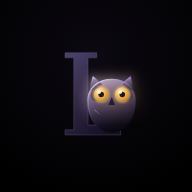
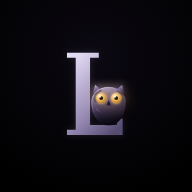
下バーの余白を元に戻し、アイコンのフクロウを前の大きさに戻す (#39)
■ 下にできた余白
前回、下バーにホームバーぶんの余白（約34px）を足したところ、
その分だけバーが高くなって画面下に空白ができていました。
バーの中のアイコンは元から 15px ほど内側にあり、ホームバーの線には
掛からないので、余分な余白は付けずに画面下いっぱいまで戻しました。
詳細画面の本文の下余白も、下バーぶんだけに戻しています。
（上の帯を避ける余白はそのまま残しています）

■ アイコン
フクロウを一つ前の大きさに戻しました。黒い地と、闇に溶ける体・
金色に光る目という描き方はそのままです。

■ テストの揺らぎ
横向きの検証で詳細画面がスライドしている途中を測ってしまうことがあったので、
待ち時間を伸ばしました（表示自体は問題なし）。

検証: 上 59px・下 34px の帯を再現して、ヘッダー・詳細・メニューが帯に
掛からないこと、下バーが画面下いっぱいでアイコンが縁に触れないことを確認。

Claude-Session: https://claude.ai/code/session_011yLiAuTRPF991GYKM8apWE

Changed region(s): [[0.3125, 0.25, 0.7188, 0.7188]]

diff --git a/index.html b/index.html
@@ -7,13 +7,13 @@
 <title>LIFE</title>
 <!-- ホーム画面に追加したときのアイコン。指定が無いと iOS が
      ページを縮小した「黒地に文字」の絵を勝手に作ってしまう -->
-<link rel="apple-touch-icon" href="assets/icon-180.png?v=dev725133">
-<link rel="icon" type="image/png" sizes="192x192" href="assets/icon-192.png?v=dev725133">
-<link rel="icon" type="image/svg+xml" href="assets/icon.svg?v=dev725133">
-<link rel="manifest" href="manifest.webmanifest?v=dev725133">
+<link rel="apple-touch-icon" href="assets/icon-180.png?v=dev725134">
+<link rel="icon" type="image/png" sizes="192x192" href="assets/icon-192.png?v=dev725134">
+<link rel="icon" type="image/svg+xml" href="assets/icon.svg?v=dev725134">
+<link rel="manifest" href="manifest.webmanifest?v=dev725134">
 <meta name="apple-mobile-web-app-title" content="LIFE">
 <meta name="apple-mobile-web-app-status-bar-style" content="black-translucent">
-<link rel="stylesheet" href="assets/app.css?v=dev725133">
+<link rel="stylesheet" href="assets/app.css?v=dev725134">
 </head>
 <body>
 <!-- 筋トレの 3D 風イラストで使う塗り（グラデーションと発光）。
@@ -115,11 +115,11 @@
     <div class="mask" id="mask"><div class="sheet" id="sheet"></div></div>
   </div>
 </div>
-<script src="assets/github.js?v=dev725133"></script>
-<script src="assets/places.js?v=dev725133"></script>
-<script src="assets/nearby.js?v=dev725133"></script>
-<script src="assets/workout.js?v=dev725133"></script>
-<script src="assets/demo-data.js?v=dev725133"></script>
-<script src="assets/app.js?v=dev725133"></script>
+<script src="assets/github.js?v=dev725134"></script>
+<script src="assets/places.js?v=dev725134"></script>
+<script src="assets/nearby.js?v=dev725134"></script>
+<script src="assets/workout.js?v=dev725134"></script>
+<script src="assets/demo-data.js?v=dev725134"></script>
+<script src="assets/app.js?v=dev725134"></script>
 </body>
 </html>

diff --git a/assets/app.css b/assets/app.css
@@ -156,9 +156,7 @@
   .act svg{width:15px;height:15px}
   .actzone{flex:none;padding:0 14px}
   .actzone:empty{display:none}
-  /* 高さ 58px は content-box で保ち、ホームバーぶんは下に足す */
-  .bottombar{flex:none;box-sizing:content-box;height:58px;display:flex;align-items:center;gap:2px;
-    padding:0 6px var(--safe-b);
+  .bottombar{flex:none;height:58px;display:flex;align-items:center;gap:2px;padding:0 6px;
     border-top:1px solid var(--line2);background:linear-gradient(180deg,#131318,#0B0B0E);position:relative;z-index:36}
   .bb{flex:1;display:flex;flex-direction:column;align-items:center;gap:3px;padding:6px 1px;border:0;
     background:none;color:var(--dim);cursor:pointer;font-family:var(--font);font-size:8.5px;border-radius:9px;line-height:1.2}
@@ -265,7 +263,7 @@
     padding:calc(17px + var(--safe-t)) 16px 12px;
     border-bottom:1px solid var(--line);flex:none}
   .db .dt{font-size:10.5px;letter-spacing:.2em;text-transform:uppercase;color:var(--dim);flex:1}
-  .dbody{flex:1;overflow-y:auto;padding:17px 16px calc(58px + var(--safe-b) + 28px)}
+  .dbody{flex:1;overflow-y:auto;padding:17px 16px calc(58px + 28px)}
   .dtitle{font-size:19px;line-height:1.4;font-weight:500;margin:0 0 7px;text-wrap:balance}
   .dsub{font-size:11.5px;color:var(--dim);margin-bottom:13px;font-family:var(--mono)}
   .chips{display:flex;flex-wrap:wrap;gap:6px;margin-bottom:14px}
